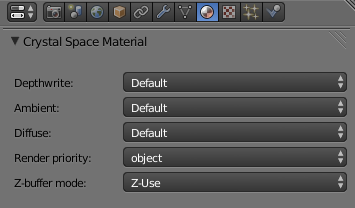
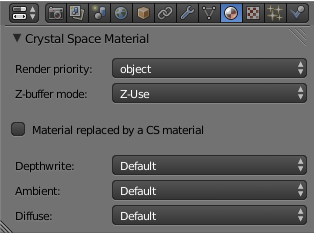
master header files: Automated master header file repair. Visual-C++ project files: Automated Visual-C++ project file repair. Texinfo files: Automated Texinfo @node and @menu repair. Swig Python files: Automated Swig Python file repair. Swig Perl5 files: Automated Swig Perl5 file repair. User's Manu

diff --git a/CS/trunk/docs/html/manual/io_005fscene_005fcs-Export-Genmesh.html b/CS/trunk/docs/html/manual/io_005fscene_005fcs-Export-Genmesh.html
@@ -143,6 +143,45 @@ If this option is activated, only the raw object is actually exported as mesh fa
 array copy of the object is exported as an instance of the factory in <samp>&lsquo;world&rsquo;</samp> file, allowing 
 to spare memory space.
 </p>
+<a name="6"></a>
+<h4 class="subsubheading"> Referencing Crystal Space factories or materials </h4>
+
+<p>If you want to include Crystal Space factories or materials to your exported Blender scenes,
+use the <samp>&lsquo;Crystal Space Factory References&rsquo;</samp> and <samp>&lsquo;Crystal Space Material References&rsquo;</samp> panels.
+They are placed in the <samp>&lsquo;Render&rsquo;</samp> context of the <samp>&lsquo;Properties&rsquo;</samp> window:
+</p>
+<p><img src="content/blender/io_scene_cs_references1.png" alt="content/blender/io_scene_cs_references1">
+</p>
+<p>These panels allow you to add references to existing Crystal Space factories and materials.
+To do so, you must enter the name of your factory or material and the <a href="VFS.html#0"><small>VFS</small></a> path of library file
+containing its definition.
+</p>
+<p><img src="content/blender/io_scene_cs_references2.png" alt="content/blender/io_scene_cs_references2">
+</p>
+<ul>
+<li>
+<strong>Factory reference:</strong> once your references are defined, you can replace a Blender mesh 
+object by a Crystal Space object. Basic Blender properties of the object - such as location, rotation 
+and scale - are preserved by the exporter. The panel allowing this operation is accessible in 
+the <samp>&lsquo;Object&rsquo;</samp> context of the <samp>&lsquo;Properties&rsquo;</samp> window:
+
+<p><img src="content/blender/io_scene_cs_references3.png" alt="content/blender/io_scene_cs_references3">
+</p>
+<p><em>Warning</em>: Note that if this property is checked, the original Blender object will 
+<em>not be exported</em>.
+</p>
+</li><li>
+<strong>Material reference:</strong> in the same way as factory references, you can replace a Blender material 
+by a Crystal Space material. Only the Crystal Space material properties will be exported. The panel 
+allowing this operation is accessible in the <samp>&lsquo;Material&rsquo;</samp> context of the <samp>&lsquo;Properties&rsquo;</samp> window:
+
+<p><img src="content/blender/io_scene_cs_references4.png" alt="content/blender/io_scene_cs_references4">
+</p>
+<p><em>Warning</em>: Note that if this property is checked, the original Blender material will 
+<em>not be exported</em>.
+</p>
+</li></ul>
+
 <hr size="1">
 <table cellpadding="1" cellspacing="1" border="0">
 <tr><td valign="middle" align="left">[<a href="io_005fscene_005fcs-Export-Scenes.html#0" title="Previous section in reading order"> &lt; </a>]</td>

diff --git a/CS/trunk/include/csver.h b/CS/trunk/include/csver.h
@@ -57,7 +57,7 @@
  */
 //CS_RCSREV_OFFSET 513
 #ifndef CS_VERSION_RCSREV
-#define CS_VERSION_RCSREV	3907
+#define CS_VERSION_RCSREV	3918
 #endif
 
 /**\name Version number definitions (numeric)
